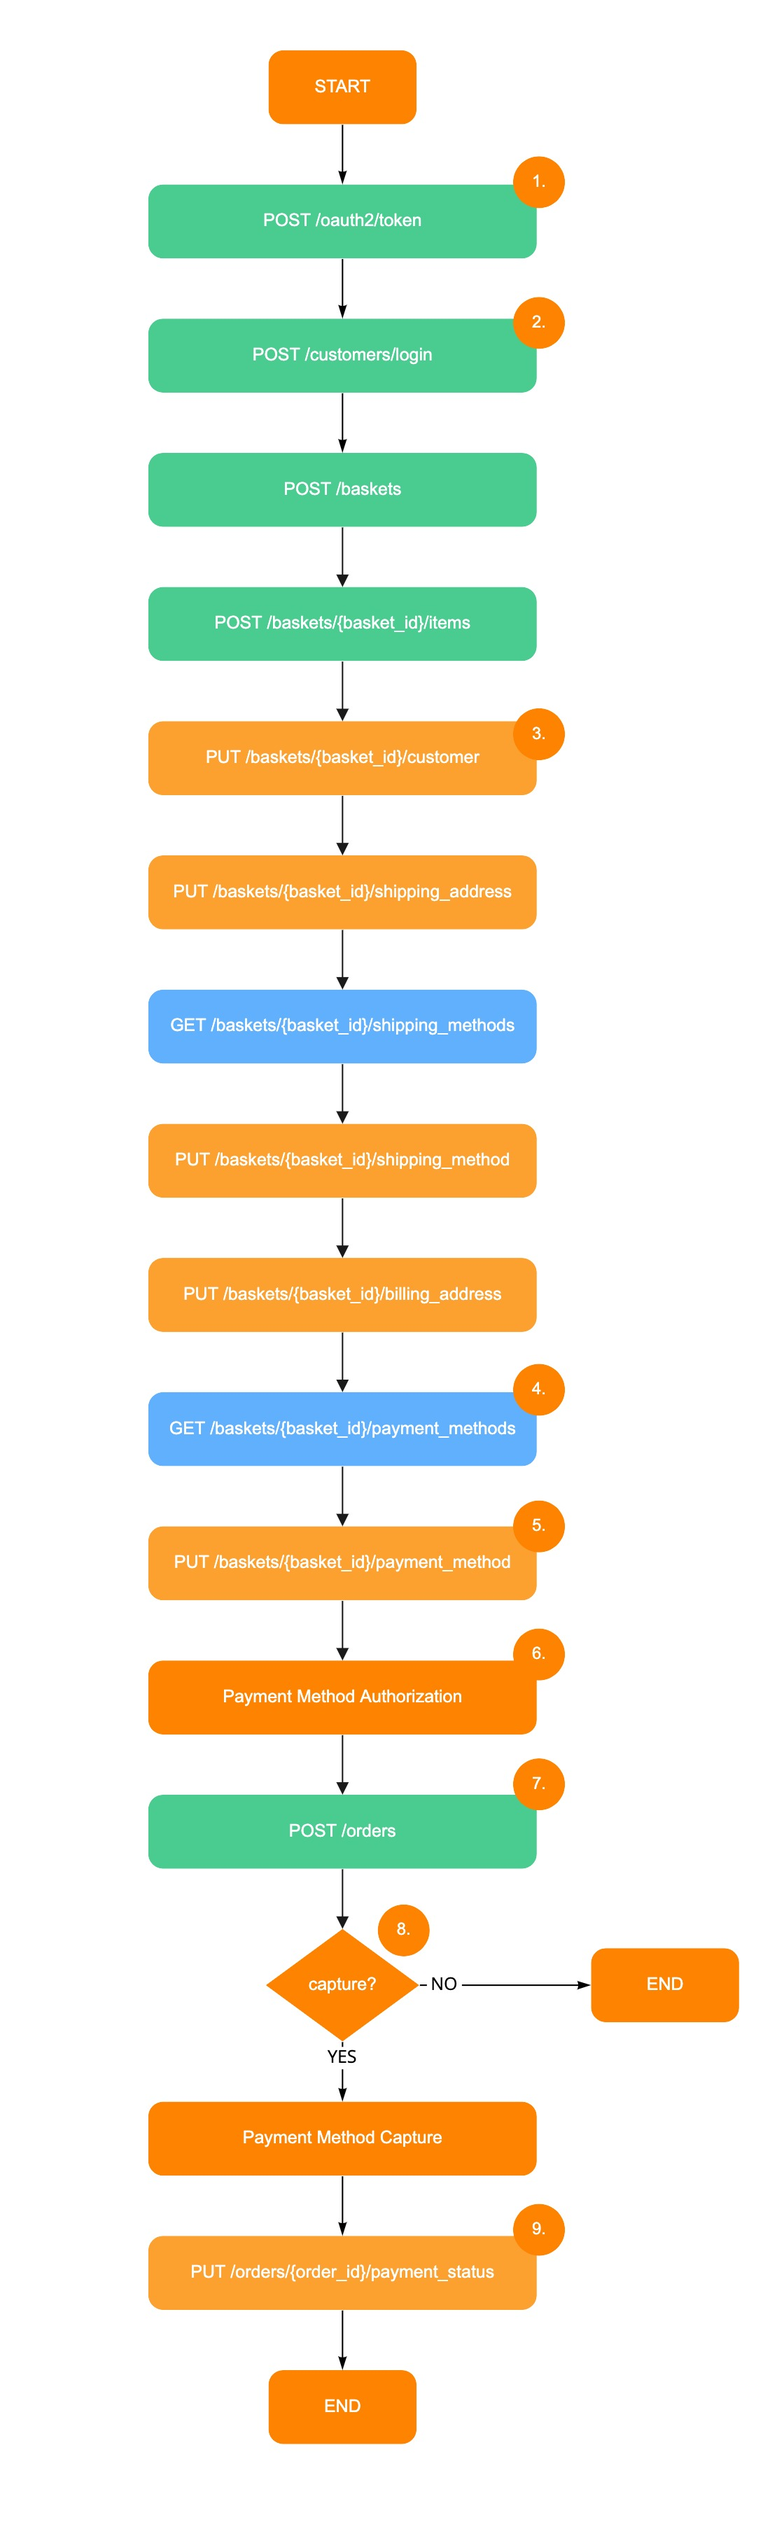
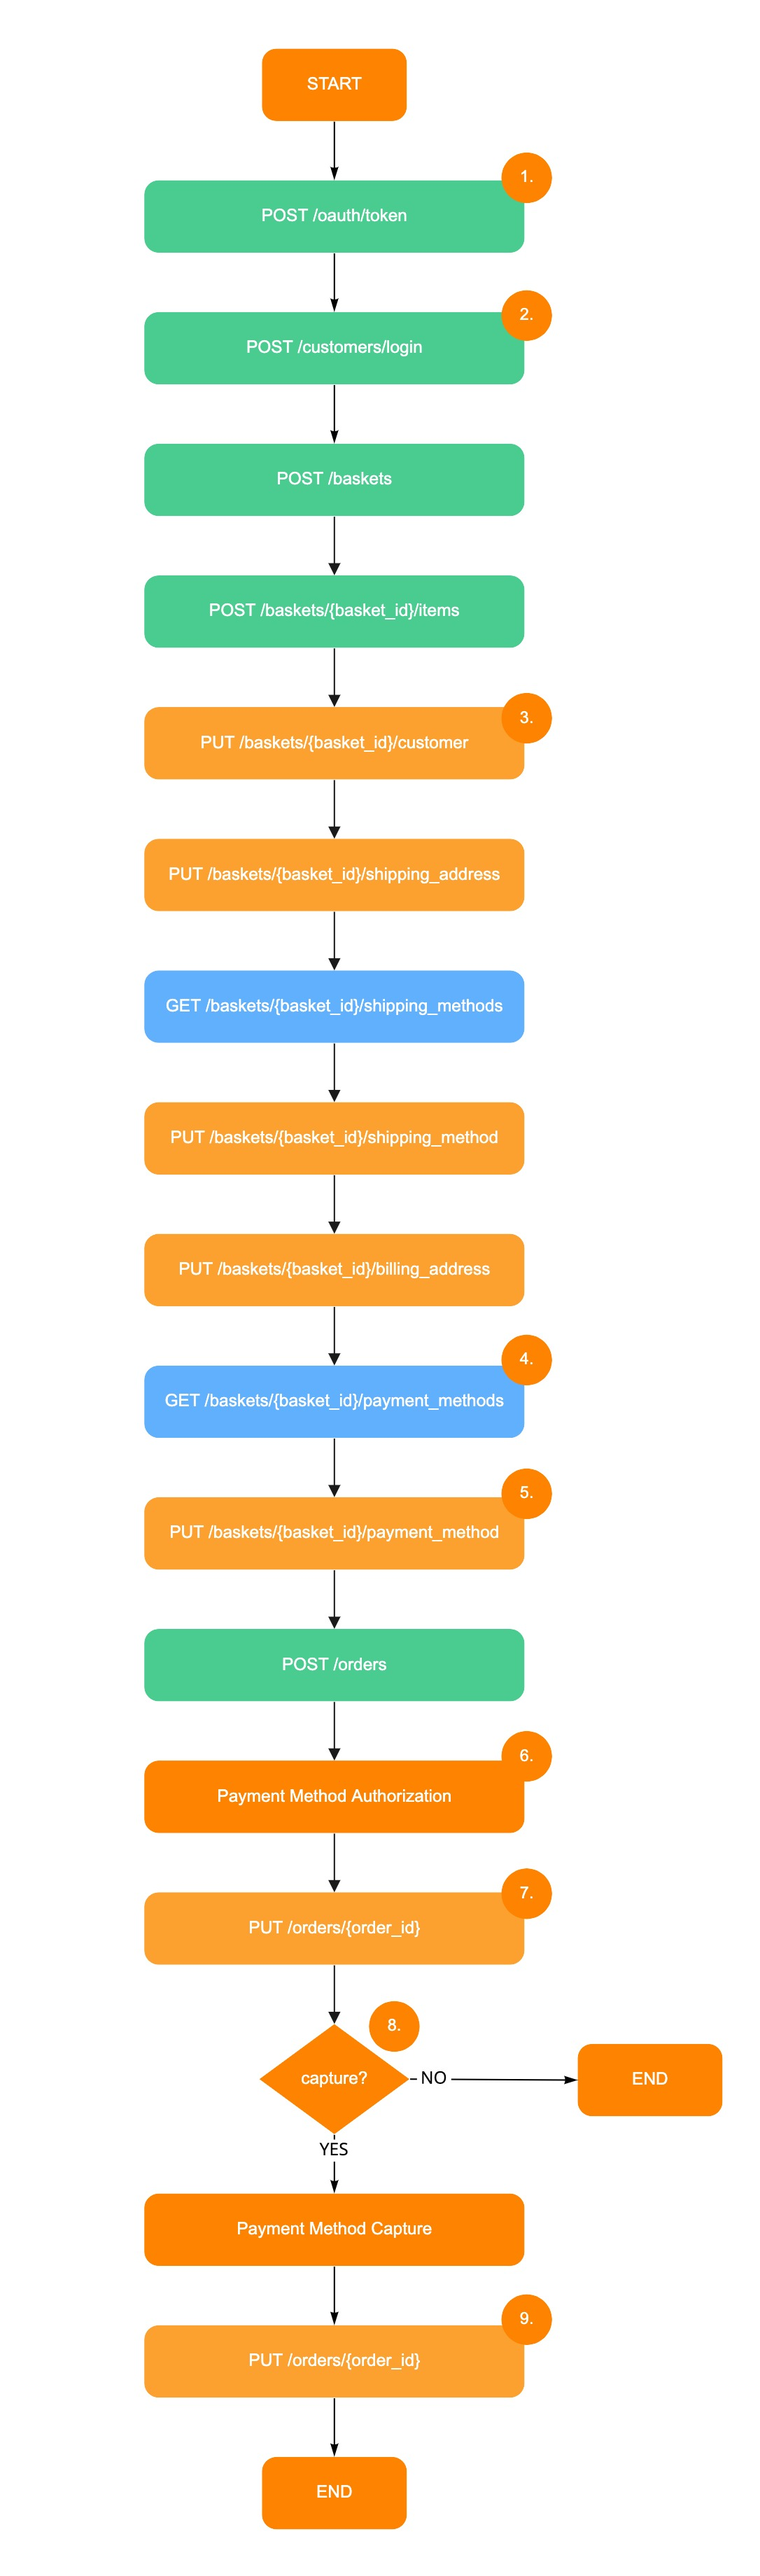
Update Standard flow for Authorization post-order

Changed region(s): [[0.1823, 0.0311, 0.7293, 0.9947], [0.7597, 0.746, 0.9724, 0.8393]]

diff --git a/STANDARD-FLOW.md b/STANDARD-FLOW.md
@@ -9,11 +9,11 @@ This document is ment to help you understand the standard flow of a customer jou
 
 
 
-1. When a person join the live event, the endpoint **/oauth2/token** is called with the *client_id* and *client_secret* provided in the Livescale Dashboard. The grant_type parameter will be, **"client_credentials"** to get the *access_token*, and **"refresh_token"** after receiving a token expired error. We expect to receive back an *access_token* and a *refresh_token*. This *access_token* will be used in every subsequent calls. The *refresh_token* will be pass in the endpoint **/oauth2/token** refresh_token parameters when the parameter grant_type will be **"refresh_token"**. The audience field will always be **"livescale"**. The Authorization section of this API specification is conform to the [RFC 6749](https://tools.ietf.org/html/rfc6749)
+1. When a person join the live event, the endpoint **/oauth/token** is called with the *client_id* and *client_secret* provided in the Livescale Dashboard. The grant_type parameter will be **"client_credentials"**. We expect to receive back an **"access_token"**. This **"access_token"** will be used in every subsequent calls. If the request failed client authentication or is invalid, the authorization server returns an error response. Upon reception of the error response, a */oauth/token* call will be placed to get a new **"access_token"**. The audience field will always be **"livescale"**. The Authorization section of this API specification is conform to the [RFC 6749](https://tools.ietf.org/html/rfc6749)
 2. When a customer start a checkout interaction, the endpoint **/customers/login** is called with type **"guest"**. Some e-commerce requires a specific *customer_token*. In that case the server will be responsable to link the *customer_token* and the *access_token* together to keep track of this customer.
 3. The only type of basket supported at the moment is **"guest"**. The endpoint **/baskets/{basket_id}/customer** is typically used to set the email address on the basket.
 4. After setting the billing address on the basket, a get **/baskets/{basket_id}/payment_methods** is asked. Only a **"LIVESCALE"** payment method is currently supported and this payment method must be returned by this endpoint.
-5. At the moment only the payment method id **"LIVESCALE"** is going to be sent in this endpoint payload.
+5. The payment method id **"LIVESCALE"** is going to be sent in this endpoint payload.
 6. Livescale is doing the **Credit Card Tokenization** and **Authorization** on the Merchant PSP using the PCI-compliant Livescale's Payment Orchestrator.
 7. The PSP *transaction_id* is provided in this endpoint's payload. This PSP *transaction_id* should be stored on the Merchant system for post order purposes such as refund.
 8. In the Livescale Admin Dashboard the Merchant is able to decided to Capture of the funds later in their payment process. If Livescale is not doing the Capture the order, the flow will end there.
